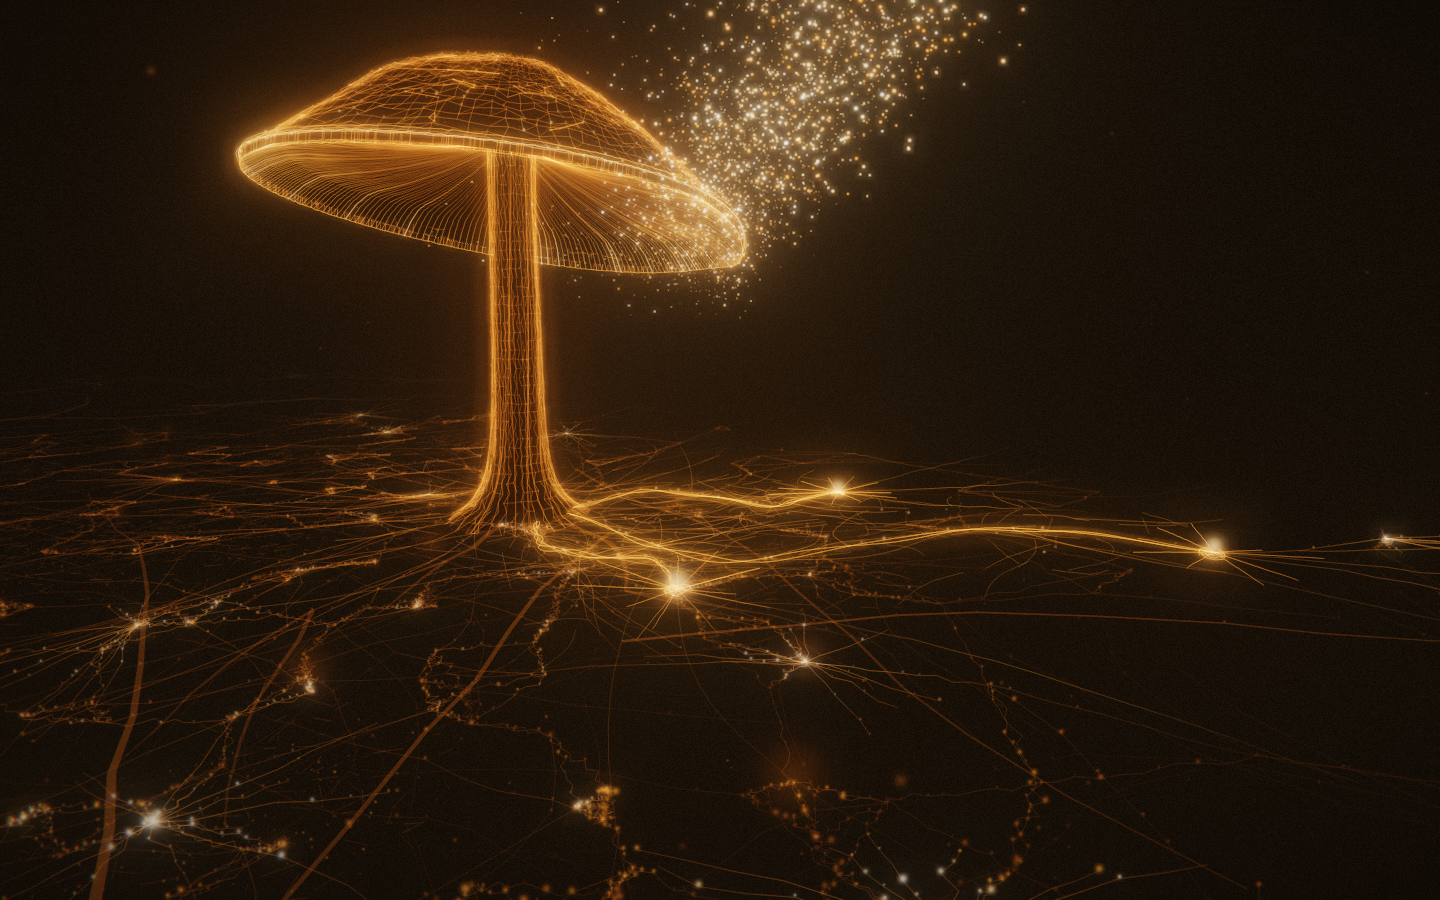
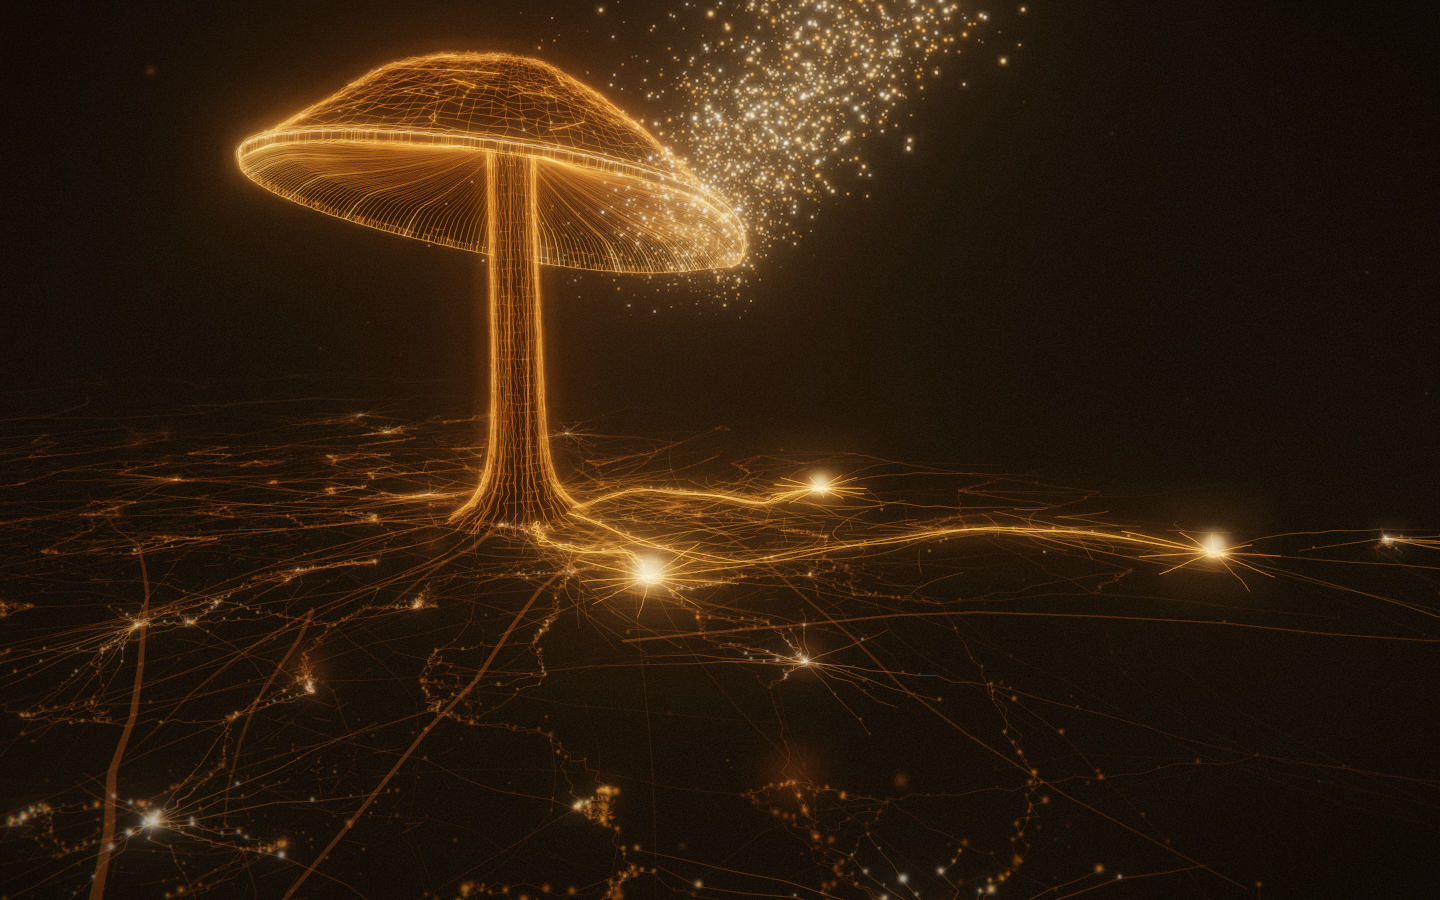
Connect audit pass: hubs become beacons, chips clear the copy, ghost pulse gated
Independent audit + taste pass over the ground restage (3cd1885), per the
two approved directives from Hannah's mockup comparison.

Hub presence: at rest the three hub cores read barely brighter than
junction glints. Dialed numbers only — resting core opacity 0.42 -> 0.58
(cap 0.95 -> 1.0 so the +0.4 hover and +0.45 arrival-flare headroom still
register: discord measures 0.58 rest -> 0.98 hover), core sprites x1.35
(0.46/0.40/0.36), spokes 1.1 -> 1.5, knots 1.35 -> 1.6. Each hub is now an
unmistakable radial starburst at rest; halos stay controlled.

Chip separation: ADOS hub -x (2.85 -> 2.50) lifts its chip off the
headline centre (copy clearance 12 -> 23 px at 1280x800, 45 px at
1440x900). Portrait 375x812 was worse than the shipped log recorded —
Hivemind/Discord pills 3 px apart and Discord clipped 10 px past the
right edge; Discord's portrait anchor moves to route-t 0.50 and Hivemind
takes -x (1.65 -> 1.38): all pills fully in-frame, 8 px gap, ADOS clears
copy by 14 px. Sway moves chips <= 2 px at this pose, so clearances hold.

Ghost-pulse fix: the travelling pulse is deliberately not tierBase-scaled,
and tier-3 continuations carry their route id with rAlong restarting 0->1
past the hub — a base-departing pulse lit the far side of the stage at
full brightness, wrong place and wrong time. One tier gate in the vertex
shader ends it; spokes/knots keep the arrival flare, secondaries keep the
fork-spill.
[…]

Changed region(s): [[0.3125, 0.4978, 1.0, 0.6844], [0.2812, 0.56, 0.3125, 0.5911]]

diff --git a/journey/chapters/connect/tendrils.js b/journey/chapters/connect/tendrils.js
@@ -59,10 +59,20 @@ const sm = (a, b, x) => smooth01((x - a) / (b - a));
    (lower-centre-left of frame), Hivemind mid-frame upper-network,
    Discord far right. y is derived from the terrain law at build.
    ================================================================ */
+// Audit taste pass (2026-08-04): ADOS nudged −x (2.85 → 2.50) so its chip
+// clears the centred headline at 1280×800 (was 12 px above the copy top,
+// directly over the headline's centre; now ~23 px and off-centre) and the
+// ADOS/Hivemind pair reads wider centre-frame. Hivemind/Discord world
+// positions: a −z Hivemind nudge was tried and reverted (it pushed the
+// portrait chip into the right viewport edge); Hivemind takes a small −x
+// nudge instead (1.65 → 1.52), which lifts its portrait chip up-left and
+// opens the Hivemind/Discord gap at 375×812. Core scales raised ~1.35×
+// (with the resting-opacity lift in index.js) so each hub reads as a
+// destination-beacon at rest — controlled halo, not lens-flare.
 export const HUBS = {
-  ados:     { pos: new V3(2.85, 0, 0.25), az: 0.20, spokes: 13, coreScale: 0.34 },
-  hivemind: { pos: new V3(1.65, 0, -3.05), az: -1.07, spokes: 11, coreScale: 0.30 },
-  discord:  { pos: new V3(5.35, 0, -3.45), az: -0.57, spokes: 9,  coreScale: 0.27 },
+  ados:     { pos: new V3(2.50, 0, 0.25), az: 0.20, spokes: 13, coreScale: 0.46 },
+  hivemind: { pos: new V3(1.38, 0, -3.05), az: -1.07, spokes: 11, coreScale: 0.40 },
+  discord:  { pos: new V3(5.35, 0, -3.45), az: -0.57, spokes: 9,  coreScale: 0.36 },
 };
 export const HUB_IDS = ['ados', 'hivemind', 'discord'];
 
@@ -130,6 +140,14 @@ function makeStrandMat(U) {
         if (route < 0.5)      { routeAmp = uRouteAmp.x; float d = (rAlong - uPulseHead.x) * 9.0; pulse = uPulseAmp.x * exp(-d * d); }
         else if (route < 1.5) { routeAmp = uRouteAmp.y; float d = (rAlong - uPulseHead.y) * 9.0; pulse = uPulseAmp.y * exp(-d * d); }
         else if (route < 2.5) { routeAmp = uRouteAmp.z; float d = (rAlong - uPulseHead.z) * 9.0; pulse = uPulseAmp.z * exp(-d * d); }
+        // Ghost-pulse fix (audit 2026-08-04): continuations/frame-exits carry
+        // their route's id (so hover lift reaches them) but restart rAlong at
+        // 0 past the hub — without this gate a base-departing pulse lit them
+        // simultaneously at the FAR side of the stage (and the pulse term is
+        // deliberately not tierBase-scaled, so it showed at full brightness).
+        // Pulses live on the route proper: primaries, spokes, knots (tier 0)
+        // and the fork-spill on secondaries (tier 1).
+        if (tier > 2.5) pulse = 0.0;
 
         /* ---- exit convergence: energy drains home into the root ---- */
         float nearBase = exp(-along * 5.5);
@@ -445,7 +463,11 @@ export function buildTendrils(group, U) {
     // narrow portrait frustum cannot always hold the hub itself, so a chip
     // may ride its route's in-frame stretch instead. The network is one
     // world-space build; only the ANCHOR is per-orientation.
-    const portAnchor = polyAt(R.poly, R.arcs, 0.60);
+    // route-t 0.60 → 0.50 (audit taste pass): at 375×812 the t 0.60 anchor
+    // put Discord's chip 3 px under Hivemind's and its pill 10 px past the
+    // right viewport edge; t 0.40 overlapped the ADOS chip instead. t 0.50
+    // (with the Hivemind −x nudge above) clears chip, edge and copy.
+    const portAnchor = polyAt(R.poly, R.arcs, 0.50);
     portAnchor.y = gy(portAnchor.x, portAnchor.z, 0.04);
     hubMeta.push({ id: R.id, pos: h.pos.clone(), along: hubAlong, route: ri, portAnchor });
 
@@ -465,9 +487,11 @@ export function buildTendrils(group, U) {
         p.y = gy(p.x, p.z, LIFT_LO + 0.02 * (1 - t) + 0.012 * t);
         if (prev) {
           // spokes carry the hub's along so they ignite as the front arrives;
-          // rAlong 1.0 = the hub end of the route (pulses land here)
+          // rAlong 1.0 = the hub end of the route (pulses land here).
+          // 1.1 → 1.5 (audit taste pass): the radial-spoke convergence is the
+          // hub's resting signature — it must read against the ambient web.
           pushSeg(prev, p, hubAlong + 0.012 * (1 - t), hubAlong + 0.012 * (1 - t), 1.0, 1.0, ri, 0, seed,
-            (0.5 + 0.5 * t) * 1.1, (0.5 + 0.5 * Math.min(t + 1 / SEG, 1)) * 1.1);
+            (0.5 + 0.5 * t) * 1.5, (0.5 + 0.5 * Math.min(t + 1 / SEG, 1)) * 1.5);
           counts.hubSegs++;
         }
         prev = p;
@@ -490,7 +514,9 @@ export function buildTendrils(group, U) {
           const p = new V3(h.pos.x + Math.cos(a) * rr, 0, h.pos.z + Math.sin(a) * rr);
           p.y = gy(p.x, p.z, 0.02 + 0.018 * Math.sin(a * 2 + seed * 7));
           if (prev) {
-            pushSeg(prev, p, hubAlong, hubAlong, 1.0, 1.0, ri, 0, seed, 1.35, 1.35);
+            // 1.35 → 1.6 (audit taste pass): the tight core knot anchors the
+            // starburst's centre of gravity at rest.
+            pushSeg(prev, p, hubAlong, hubAlong, 1.0, 1.0, ri, 0, seed, 1.6, 1.6);
             counts.hubSegs++;
           }
           prev = p;

diff --git a/journey/chapters/connect/index.js b/journey/chapters/connect/index.js
@@ -239,7 +239,11 @@ export function createConnect(sceneApi) {
       hubIgnite[i] = sm(hm.along - 0.05, hm.along + 0.015, grow * 1.06);
       const core = net.cores[i];
       const a = amt[hm.id], flare = pulses[i].flare;
-      core.mat.opacity = amount * hubIgnite[i] * Math.min(0.95, 0.42 + 0.4 * a + 0.45 * flare);
+      // Resting identity raised (audit taste pass, 2026-08-04): each hub must
+      // read as an unmistakable destination-beacon AT REST, not only on
+      // pulse/hover — 0.58 resting, cap lifted to 1.0 so the hover (+0.4)
+      // and arrival-flare (+0.45) headroom still register above it.
+      core.mat.opacity = amount * hubIgnite[i] * Math.min(1.0, 0.58 + 0.4 * a + 0.45 * flare);
       core.sprite.scale.setScalar(core.baseScale * (1 + 0.18 * a + 0.22 * flare));
     }
   });

diff --git a/journey-v6-plan/16-connect-ground-restage.md b/journey-v6-plan/16-connect-ground-restage.md
@@ -342,3 +342,99 @@ comment updated (the path now drops past the rim outside, same p).
 - Ambient pulse arrival flare on the hub cores is modest (+0.45 opacity);
   if Hannah wants the "hub brightens on arrival" beat louder, the knob is
   `P.flare` weighting in index.js.
+
+## Audit + taste pass (2026-08-04, independent adversarial audit)
+
+**Taste directive A — hub resting presence.** At the rest the three hub
+cores read barely brighter than junction glints (mockup wants unmistakable
+radial starburst convergences). Dialed, no new systems: resting core
+opacity 0.42 → 0.58 (cap 0.95 → 1.0 so hover +0.4 and arrival-flare +0.45
+still register above rest — measured: discord rest 0.58 → hover 0.98),
+core sprite scales ×~1.35 (0.34/0.30/0.27 → 0.46/0.40/0.36), spoke
+brightness 1.1 → 1.5, knot 1.35 → 1.6. Ignition/pulse/hover headroom
+preserved; halos stay controlled (destination-beacon, not lens-flare).
+
+**Taste directive B — ADOS/Hivemind separation.** At 1280×800 the ADOS
+chip sat 12 px above the copy top, directly over the headline centre.
+ADOS hub −x (2.85 → 2.50): clearance 12 → 23 px (1280×800), 45 px at
+1440×900, chip off the headline centre; pair distance 181 → 186 px with
+80 px vertical. Portrait 375×812 (pre-existing, worse than the shipped
+log recorded): Hivemind/Discord chips 3 px apart with Discord's pill
+10 px past the right viewport edge. Fixed: Discord portAnchor route-t
+0.60 → 0.50 (t 0.40 overlapped ADOS) + Hivemind −x (1.65 → 1.38; a −z
+nudge was tried and reverted — it pushed the portrait chip into the right
+edge). Final portrait: all pills fully in-frame (Discord right edge 355,
+20 px margin), Hivemind↔Discord gap 8 px, ADOS↔Discord 18 px horizontal,
+ADOS copy clearance 14 px. Sway displaces chips ≤ 2 px at this pose
+(sampled 112 frames over 40 s), so the clearances hold through phases.
+
+**Bug found + fixed — ghost pulse on continuations.** The travelling-pulse
+term is deliberately not tierBase-scaled, and continuation/frame-exit
+strands (tier 3) carry their route id with rAlong restarting 0 → 1 past
+the hub — so a base-departing pulse simultaneously lit the far side of
+the stage at full pulse brightness (wrong place AND wrong time). Fixed
+with a tier gate in the vertex shader (`if (tier > 2.5) pulse = 0.0`);
+spokes/knots (tier 0, rAlong 1.0) keep the arrival flare, secondaries
+(tier 1) keep the fork-spill.
+
+**Audit results (measured, 1280×800 + 375×812 unless noted).**
+
+1. D16 sweep 0.34→0.74→0.34 at 0.04 p/s, instrumented on group-visibility
+   flips: forward reveal at p 0.4018/0.4017 (land/port) with uGrow 0.0000;
+   forward retire 0.7065/0.7063 and reverse re-arm 0.7026/0.7037 — all
+   inside the Owned soil-murk (0.692–0.712); reverse vanish 0.398/0.3988
+   with uGrow 0. No fade over open ground either aspect; mid-growth spot
+   frames show front-motion only (ADOS starburst ignites first).
+2. Camera, 201-sample scrub (drift-aware: rates differentiated against
+   actual journey.progress — naive fixed-grid differentiation inflates
+   peaks ~7% and briefly read 1243 before correction): restaged span
+   peaks yaw 1164 °/p (p 0.631) / pitch 1157 (p 0.652) landscape, 1166 /
+   1144 portrait — under the ~1.2k threshold, matching the builder's
+   1167/994 claim in kind. Roll 0.0000° everywhere. Splice continuity:
+   position rates ramp smoothly through both boundaries (23→38 u/p across
+   p 0.38; 114→58 across 0.60), no jumps. Global pitch peak 1766/1778 °/p
+   at p 0.697 = the shipped soil-crossing, untouched.
+3. Hover/focus: uRouteAmp [1.55, 0.55, 0.55] with ados hot, hairline 0.7,
+   focused pulse head observed travelling (0.893, amp 2.0); eased return
+   to [1,1,1]; keyboard focus parity (hivemind focus → [0.55,1.55,0.55]);
+   tab order = DOM order = ados/hivemind/discord; click opens the card
+   (#/connect/hivemind, aria-expanded true), Escape closes (detail null).
+4. Deep links: #/connect/discord (card + 'Join the Discord' CTA),
+   legacy #/connect/community → discord, #/connect/ados
+   (nodeWorld('ados') = (2.50, 0.048, 0.25) — focal handoff intact),
+   cold #/connect renders grown (uGrow 1 via snap). ?capture=connect
+   stability: two frozen shots differ by ONE pixel/count (MAE 7.7e-7,
+   the known ANGLE-Metal noise class); mobile byte-identical.
+5. Shader statics re-reviewed: no pow(neg) (gaussians are exp(-d·d), JS
+   `**` on non-negative sines only), varyings clamped, output capped 48,
+   point alpha clamped. Soaks 20 s at rest + 20 s held at p 0.44: no
+   black frame, no TAA wash, zero console errors.
+6. Full 0→1→0 rides both aspects with console.error/warn/onerror hooks:
+   0 entries. (The two 'patch' reserved-word shader errors visible in the
+   tab's console history are stale pre-fix entries from the build
+   session, as the shipped log already noted.)
+7. Goldens: --check before reshoot isolated the change to the connect
+   pair (MAE 1.23/0.93, all others 0.00); full set re-shot frozen at the
+   final tree — mission/inspire/owned/final reproduced BYTE-IDENTICAL
+   (git-clean), connect pair intentionally new, manifest provenance
+   noted. --check at the final tree: worst MAE 0.00/255, PASS.
+8. Hero-web dim restore: base [0.36, 0.35, 0.95, 0.5, 0.42, 0.45, 0.95]
+   → armed-at-rest exactly base × KEEP [0.1512, 0.147, 0.57, 0.4,
+   0.2016, 0.234, 0.551] → after retire restored `===`-exact.
+
+**Audit residuals (not fixed, with reasons).**
+
+- Owned-descent pitch rate: the untouched t 0.18 → 0.272 stretch measures
+  up to ~1530 °/p locally (p 0.657) — nominal key-to-key is ~1130 and the
+  spline overshoots. An attempt to soften it by easing the two re-authored
+  keys' aims moved the spike to p 0.608 (1371–1398 °/p) instead of
+  removing it — Catmull-Rom tangents leak local fixes sideways — so the
+  keys were reverted byte-exact to the shipped restage. It sits outside
+  the restaged span, alongside the pre-existing 1766 soil-crossing peak.
+- Portrait Hivemind↔Discord chip gap is 8 px — the narrow frustum
+  genuinely cannot give three pills generous spacing without new UI
+  machinery (a label-side flip), which the doc forbids ("zero new UI
+  code"). All pills are now fully in-frame and non-overlapping, which the
+  shipped build's 3 px + 10 px edge-clip was not.
+- The p 0.63–0.69 bareness residual and the modest arrival flare stand
+  as the builder left them.
